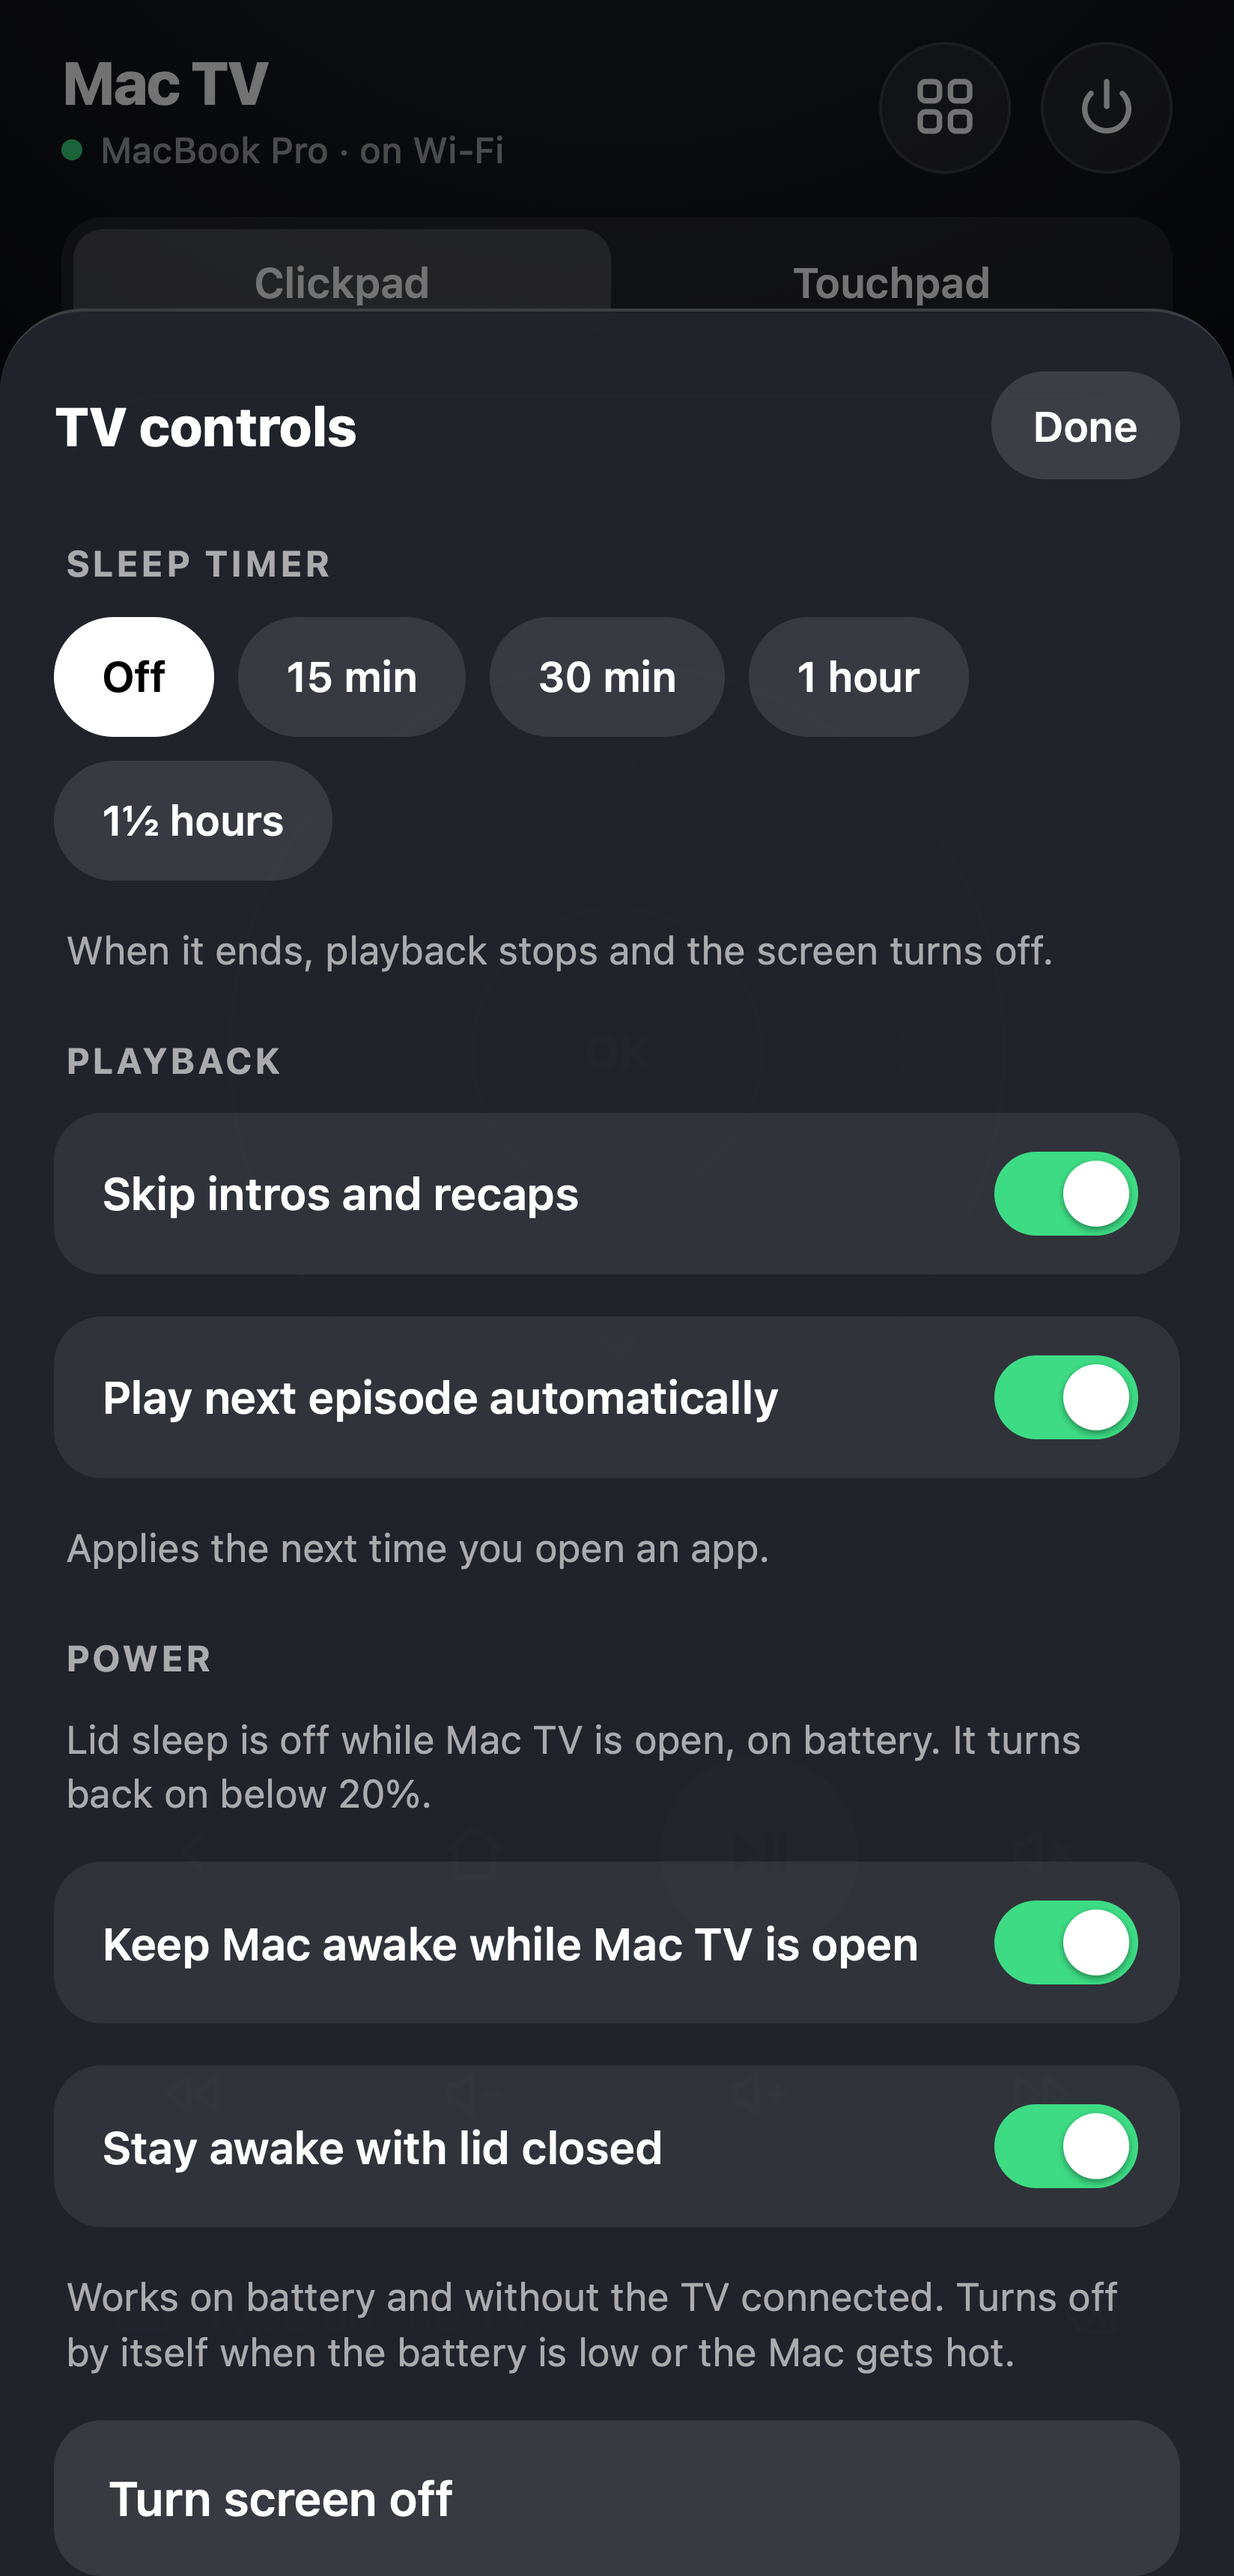
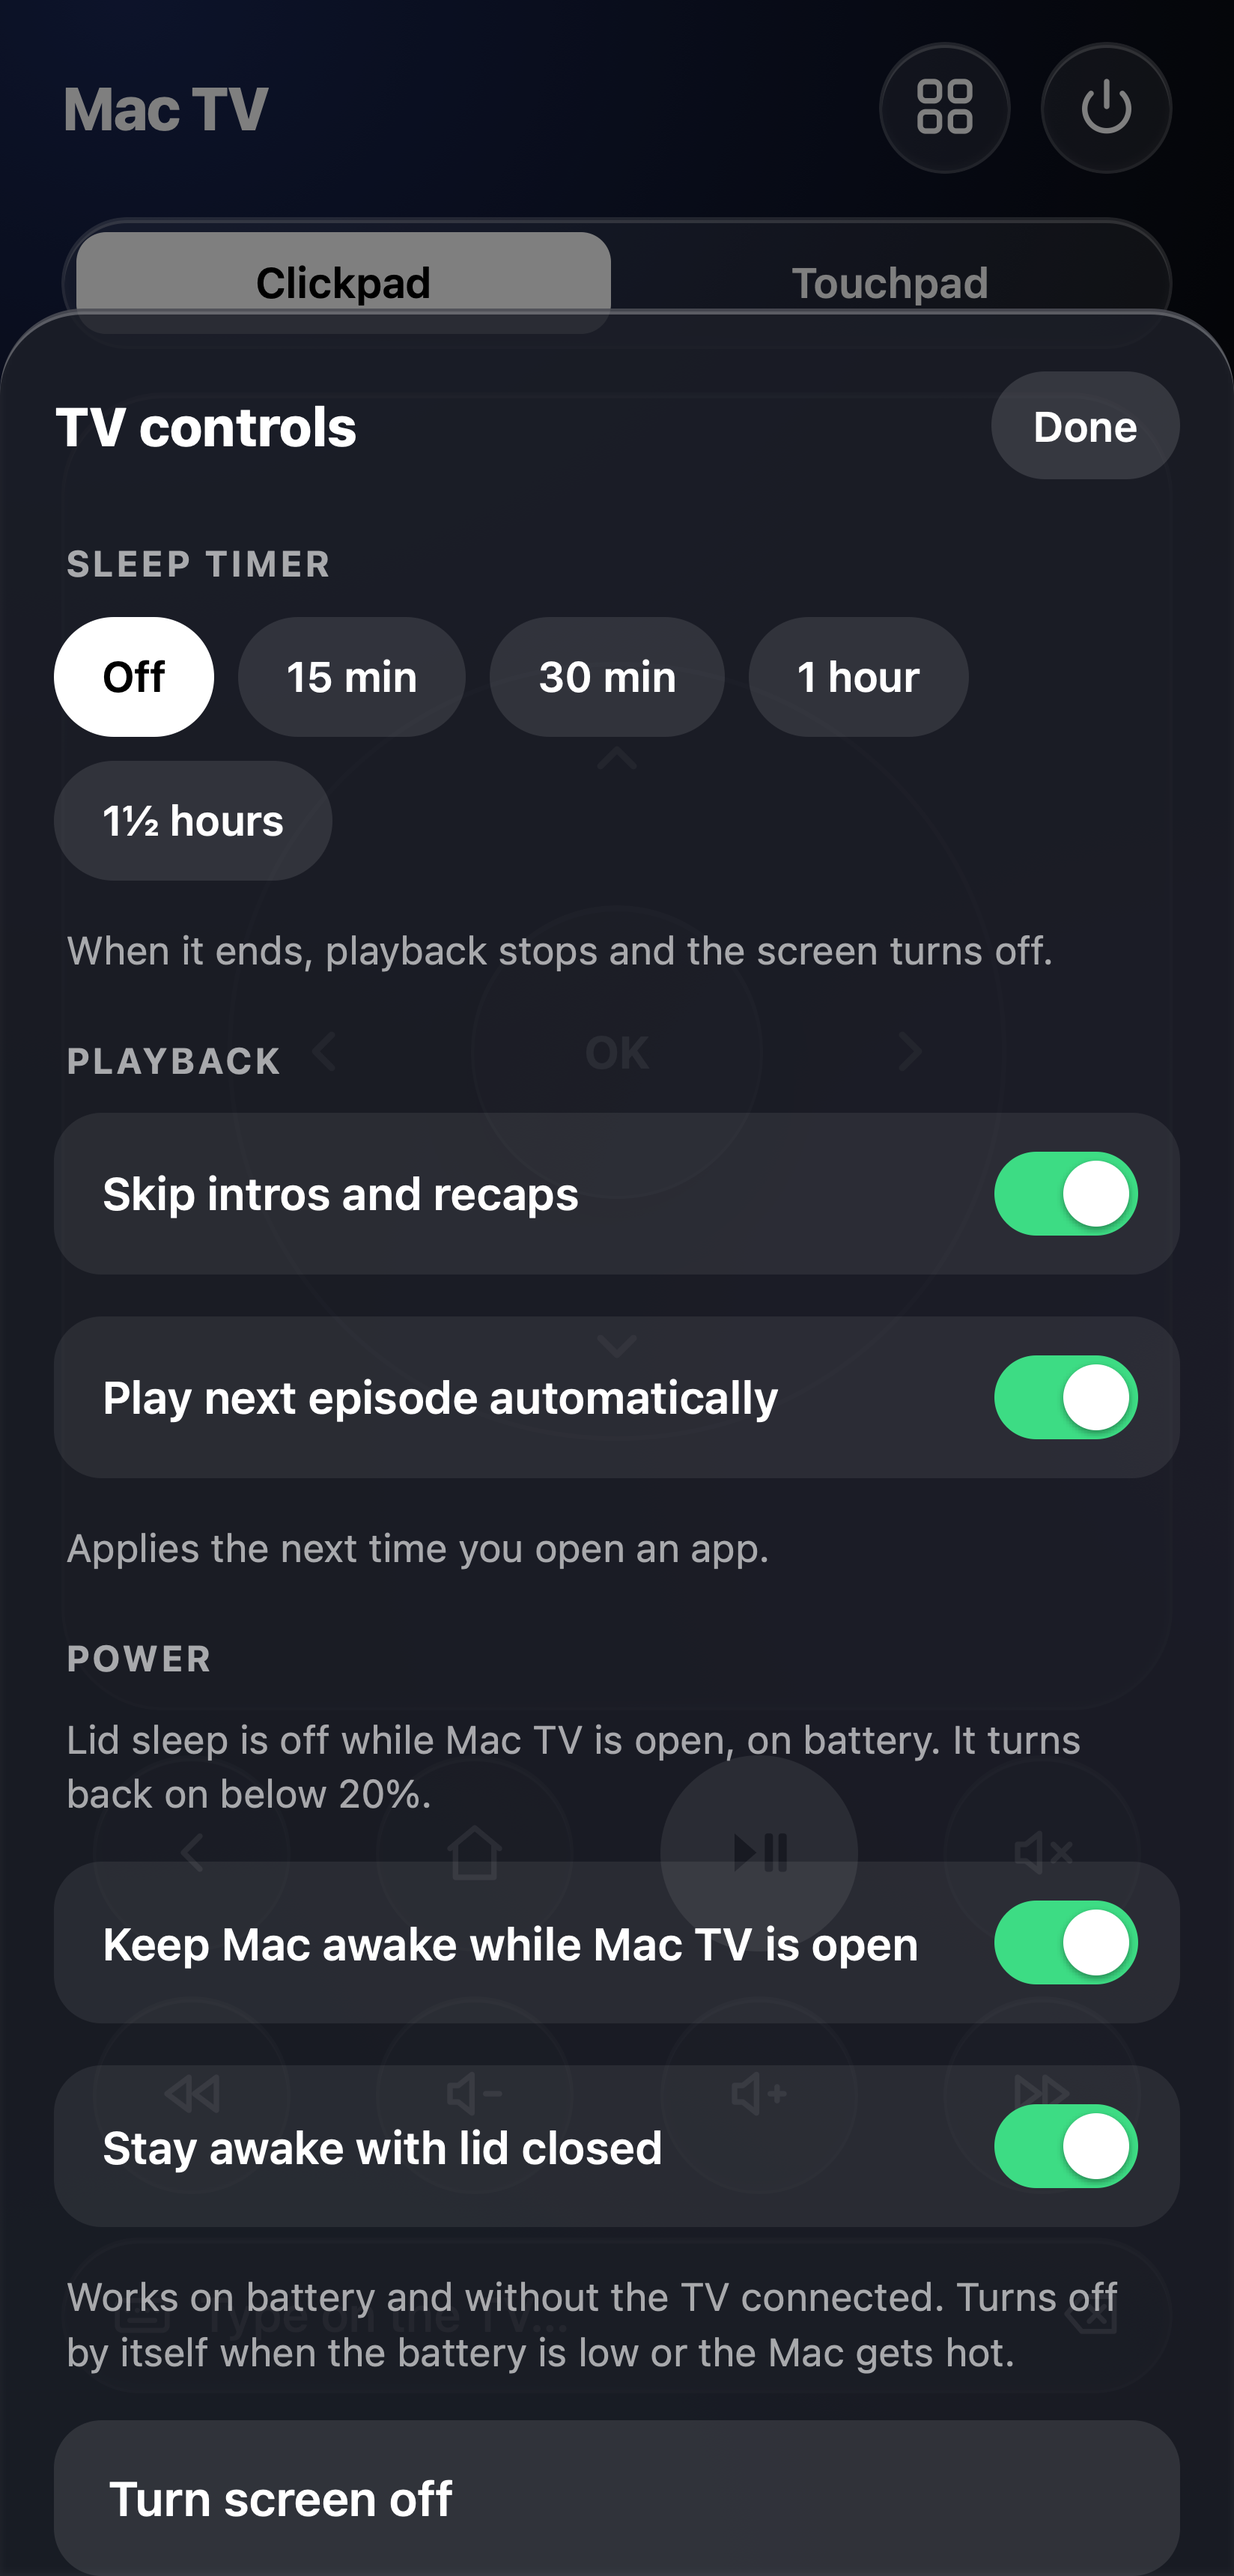
Phone remote: Apple TV glass
Keys, the pad, tabs, the typing bar and sheets are glass over a soft
colour backdrop, and a pressed control lights up white, matching the
TV app.

Changed region(s): [[0.0, 0.0, 0.4951, 0.1244], [0.6499, 0.0933, 0.8046, 0.1244]]

diff --git a/Sources/MacTV/RemotePage.swift b/Sources/MacTV/RemotePage.swift
@@ -17,30 +17,37 @@ enum RemotePage {
     <link rel="manifest" href="/manifest.webmanifest">
     <style>
       :root {
-        --bg:#0a0b0e; --glass:rgba(255,255,255,.08); --glass-hi:rgba(255,255,255,.18); --line:rgba(255,255,255,.1);
+        --bg:#07080b; --glass:rgba(255,255,255,.09); --line:rgba(255,255,255,.14);
+        /* Apple TV's Liquid Glass: blur and saturate what's behind, with a bright top edge. */
+        --blur:blur(28px) saturate(170%); --sheen:inset 0 1px 0 rgba(255,255,255,.28), inset 0 -1px 1px rgba(255,255,255,.05);
+        /* Soft colour behind everything, so the glass has something to show. */
+        --ambient:radial-gradient(70vmax 60vmax at 10% 0%, rgba(70,110,255,.30), transparent 70%),
+                  radial-gradient(60vmax 60vmax at 100% 55%, rgba(170,80,255,.20), transparent 70%),
+                  radial-gradient(60vmax 50vmax at 20% 100%, rgba(0,190,170,.14), transparent 70%), #07080b;
         --fg:#fff; --dim:rgba(255,255,255,.62); --ok:#3ddc84; --warn:#ff6b6b;
         /* Controls size with the phone: round keys from 52 to 68px, spacing from the screen height. */
         --key:clamp(52px, 16vw, 68px); --gap:clamp(10px, 1.7dvh, 16px);
       }
       * { box-sizing:border-box; -webkit-tap-highlight-color:transparent; -webkit-user-select:none; user-select:none; }
       html, body { margin:0; height:100%; color:var(--fg); font:16px/1.3 -apple-system, system-ui, Roboto, sans-serif; background:var(--bg); overscroll-behavior:none; }
-      body { background:radial-gradient(520px 420px at 50% -10%, #22252f 0%, var(--bg) 70%) no-repeat, var(--bg); }
+      body { background:var(--ambient); background-attachment:fixed; }
       main { width:100%; max-width:460px; min-height:100dvh; margin:0 auto; padding:calc(env(safe-area-inset-top) + 14px) clamp(14px, 5vw, 22px) calc(env(safe-area-inset-bottom) + 18px); display:flex; flex-direction:column; gap:var(--gap); touch-action:manipulation; }
       button { font:inherit; color:inherit; cursor:pointer; transition:transform .08s, background-color .08s; }
       .pressed { transform:scale(.93); }
-      .round { width:44px; height:44px; border-radius:50%; border:1px solid var(--line); background:var(--glass); display:grid; place-items:center; }
-      .round.pressed, .key.pressed, .pill.pressed, .row-btn.pressed { background:var(--glass-hi); }
+      .round { width:44px; height:44px; border-radius:50%; border:1px solid var(--line); background:var(--glass); -webkit-backdrop-filter:var(--blur); backdrop-filter:var(--blur); box-shadow:var(--sheen); display:grid; place-items:center; }
+      /* tvOS focus: a press lights the control up as a white platter. */
+      .round.pressed, .key.pressed, .pill.pressed, .row-btn.pressed { background:#fff; color:#000; }
       header { display:flex; align-items:center; justify-content:space-between; gap:12px; }
       header h1 { margin:0; font-size:20px; font-weight:800; letter-spacing:-.02em; }
       .status[hidden] { display:none; }
       .status { display:flex; align-items:center; gap:6px; font-size:12px; font-weight:500; color:var(--dim); margin-top:2px; white-space:nowrap; overflow:hidden; text-overflow:ellipsis; }
       .dot { width:7px; height:7px; border-radius:50%; background:var(--warn); flex:none; }
       .actions { display:flex; gap:10px; flex:none; }
-      .tabs { display:grid; grid-template-columns:1fr 1fr; gap:4px; padding:4px; height:44px; flex:none; border-radius:14px; background:var(--glass); }
+      .tabs { display:grid; grid-template-columns:1fr 1fr; gap:4px; padding:4px; height:44px; flex:none; border-radius:999px; background:var(--glass); border:1px solid var(--line); -webkit-backdrop-filter:var(--blur); backdrop-filter:var(--blur); box-shadow:var(--sheen); }
       .tabs button { border:0; border-radius:10px; background:transparent; font-size:14px; font-weight:600; }
-      .tabs button.on { background:rgba(255,255,255,.18); }
+      .tabs button.on { background:#fff; color:#000; }
       /* The touch surface takes whatever height is left, so the remote fills any phone. */
-      .surface { position:relative; flex:1 1 auto; min-height:210px; max-height:440px; border-radius:34px; background:linear-gradient(180deg, rgba(255,255,255,.09), rgba(255,255,255,.04)); border:1px solid var(--line); box-shadow:inset 0 1px 0 rgba(255,255,255,.12); overflow:hidden; touch-action:none; }
+      .surface { position:relative; flex:1 1 auto; min-height:210px; max-height:440px; border-radius:34px; background:rgba(255,255,255,.06); border:1px solid var(--line); -webkit-backdrop-filter:var(--blur); backdrop-filter:var(--blur); box-shadow:var(--sheen); overflow:hidden; touch-action:none; }
       /* The ring is centred and sized to fit the surface; arrows and OK sit on it. */
       #clickpad .ring { position:absolute; left:50%; top:50%; width:min(260px, 70vw); max-height:86%; aspect-ratio:1; transform:translate(-50%, -50%); border-radius:50%; border:1.5px solid rgba(255,255,255,.14); pointer-events:none; }
       #clickpad .chev { position:absolute; width:40px; height:40px; display:grid; place-items:center; color:rgba(255,255,255,.55); transition:color .12s, scale .12s; }
@@ -48,23 +55,23 @@ enum RemotePage {
       #clickpad .up { left:50%; top:4%; translate:-50% 0; } #clickpad .down { left:50%; bottom:4%; translate:-50% 0; }
       #clickpad .left { top:50%; left:4%; translate:0 -50%; } #clickpad .right { top:50%; right:4%; translate:0 -50%; }
       #clickpad .ok { position:absolute; left:50%; top:50%; width:38%; aspect-ratio:1; translate:-50% -50%; border-radius:50%; border:1px solid rgba(255,255,255,.16); background:rgba(255,255,255,.1); box-shadow:inset 0 1px 0 rgba(255,255,255,.18), 0 10px 24px rgba(0,0,0,.35); display:grid; place-items:center; font-weight:700; font-size:15px; transition:background .12s, scale .12s; }
-      #clickpad .ok.hit { background:rgba(255,255,255,.26); scale:.94; }
+      #clickpad .ok.hit { background:#fff; color:#000; scale:.94; }
       #touchpad { display:none; }
       #touchpad .hint { position:absolute; left:0; right:0; bottom:18px; text-align:center; font-size:13px; font-weight:500; color:rgba(255,255,255,.55); pointer-events:none; padding:0 16px; }
       .keys { display:grid; grid-template-columns:repeat(4, 1fr); gap:var(--gap) 8px; justify-items:center; flex:none; }
-      .key { width:var(--key); height:var(--key); border-radius:50%; border:1px solid var(--line); background:var(--glass); display:grid; place-items:center; box-shadow:inset 0 1px 0 rgba(255,255,255,.1); }
+      .key { width:var(--key); height:var(--key); border-radius:50%; border:1px solid var(--line); background:var(--glass); -webkit-backdrop-filter:var(--blur); backdrop-filter:var(--blur); display:grid; place-items:center; box-shadow:var(--sheen); }
       .key.primary { background:#fff; color:#000; }
       .key.primary.pressed { background:#d9d9d9; }
       .key svg, .round svg { width:22px; height:22px; }
-      .type { display:flex; align-items:center; gap:8px; height:52px; flex:none; padding:0 6px 0 16px; border-radius:16px; background:var(--glass); border:1px solid var(--line); color:var(--dim); }
+      .type { display:flex; align-items:center; gap:8px; height:52px; flex:none; padding:0 6px 0 16px; border-radius:999px; background:var(--glass); border:1px solid var(--line); -webkit-backdrop-filter:var(--blur); backdrop-filter:var(--blur); box-shadow:var(--sheen); color:var(--dim); }
       .type input { flex:1; min-width:0; border:0; outline:0; background:transparent; color:#fff; font:500 16px -apple-system, system-ui, sans-serif; -webkit-user-select:text; user-select:text; }
       .type button { width:40px; height:40px; border:0; border-radius:12px; background:transparent; display:grid; place-items:center; color:#fff; }
       /* Short phones: a smaller touch surface so the controls fit without scrolling. */
       @media (max-height: 640px) { .surface { min-height:180px; } }
 
-      .scrim { position:fixed; inset:0; background:rgba(0,0,0,.55); display:none; flex-direction:column; justify-content:flex-end; z-index:5; }
+      .scrim { position:fixed; inset:0; background:rgba(0,0,0,.5); -webkit-backdrop-filter:blur(6px); backdrop-filter:blur(6px); display:none; flex-direction:column; justify-content:flex-end; z-index:5; }
       .scrim.show { display:flex; }
-      .sheet { max-width:460px; width:100%; max-height:88dvh; overflow-y:auto; margin:0 auto; padding:20px 18px calc(env(safe-area-inset-bottom) + 24px); border-radius:28px 28px 0 0; background:rgba(34,36,44,.98); border-top:1px solid rgba(255,255,255,.12); display:flex; flex-direction:column; gap:14px; }
+      .sheet { max-width:460px; width:100%; max-height:88dvh; overflow-y:auto; margin:0 auto; padding:20px 18px calc(env(safe-area-inset-bottom) + 24px); border-radius:28px 28px 0 0; background:rgba(28,30,40,.86); -webkit-backdrop-filter:blur(40px) saturate(180%); backdrop-filter:blur(40px) saturate(180%); border-top:1px solid rgba(255,255,255,.18); box-shadow:var(--sheen); display:flex; flex-direction:column; gap:14px; }
       .sheet > * { flex-shrink:0; }
       .sheet-head { display:flex; align-items:center; justify-content:space-between; gap:10px; }
       .sheet-head > span { font-size:18px; font-weight:800; }
@@ -102,7 +109,7 @@ enum RemotePage {
       .list button { display:flex; align-items:center; justify-content:space-between; gap:10px; height:50px; border:0; border-radius:14px; background:rgba(255,255,255,.07); padding:0 16px; font-size:15px; font-weight:600; text-align:left; }
       .list button span:last-child { font-size:12px; color:var(--dim); font-weight:600; }
       .list button[disabled] { opacity:.5; }
-      #pair { position:fixed; inset:0; background:var(--bg); display:none; flex-direction:column; justify-content:center; gap:14px; padding:24px; text-align:center; z-index:9; }
+      #pair { position:fixed; inset:0; background:var(--ambient); display:none; flex-direction:column; justify-content:center; gap:14px; padding:24px; text-align:center; z-index:9; }
       #pair.show { display:flex; }
       #pair h1 { margin:0; font-size:26px; }
       #pair p { margin:0; color:var(--dim); }
